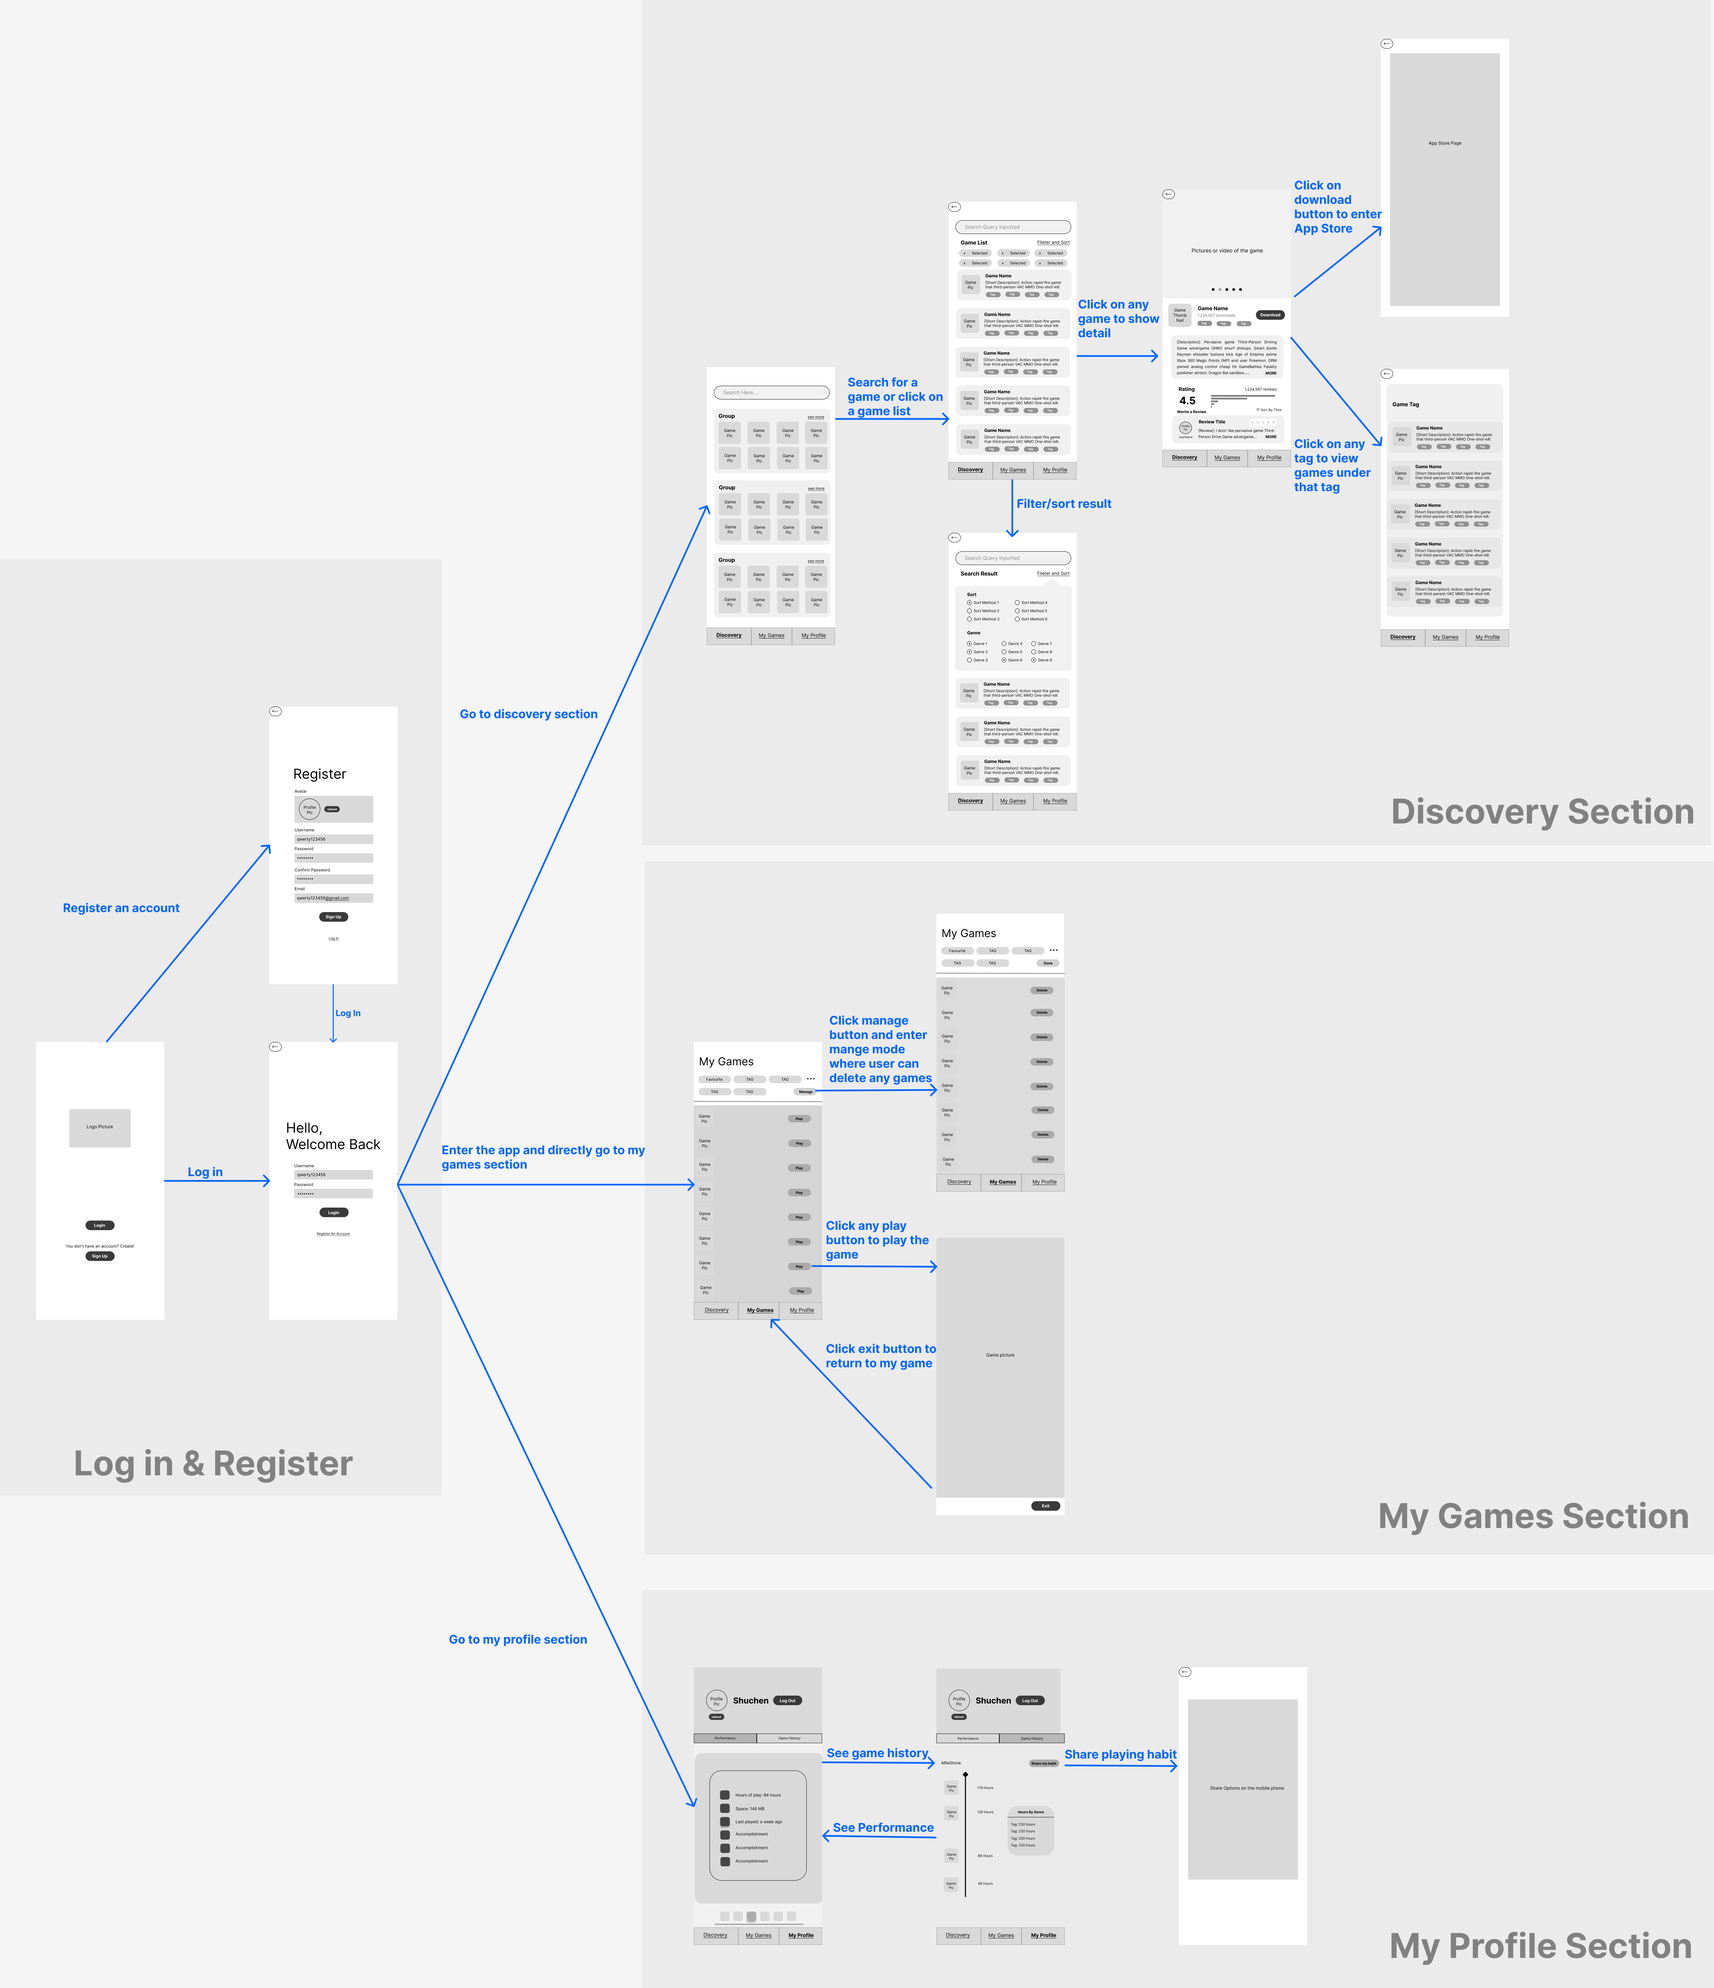
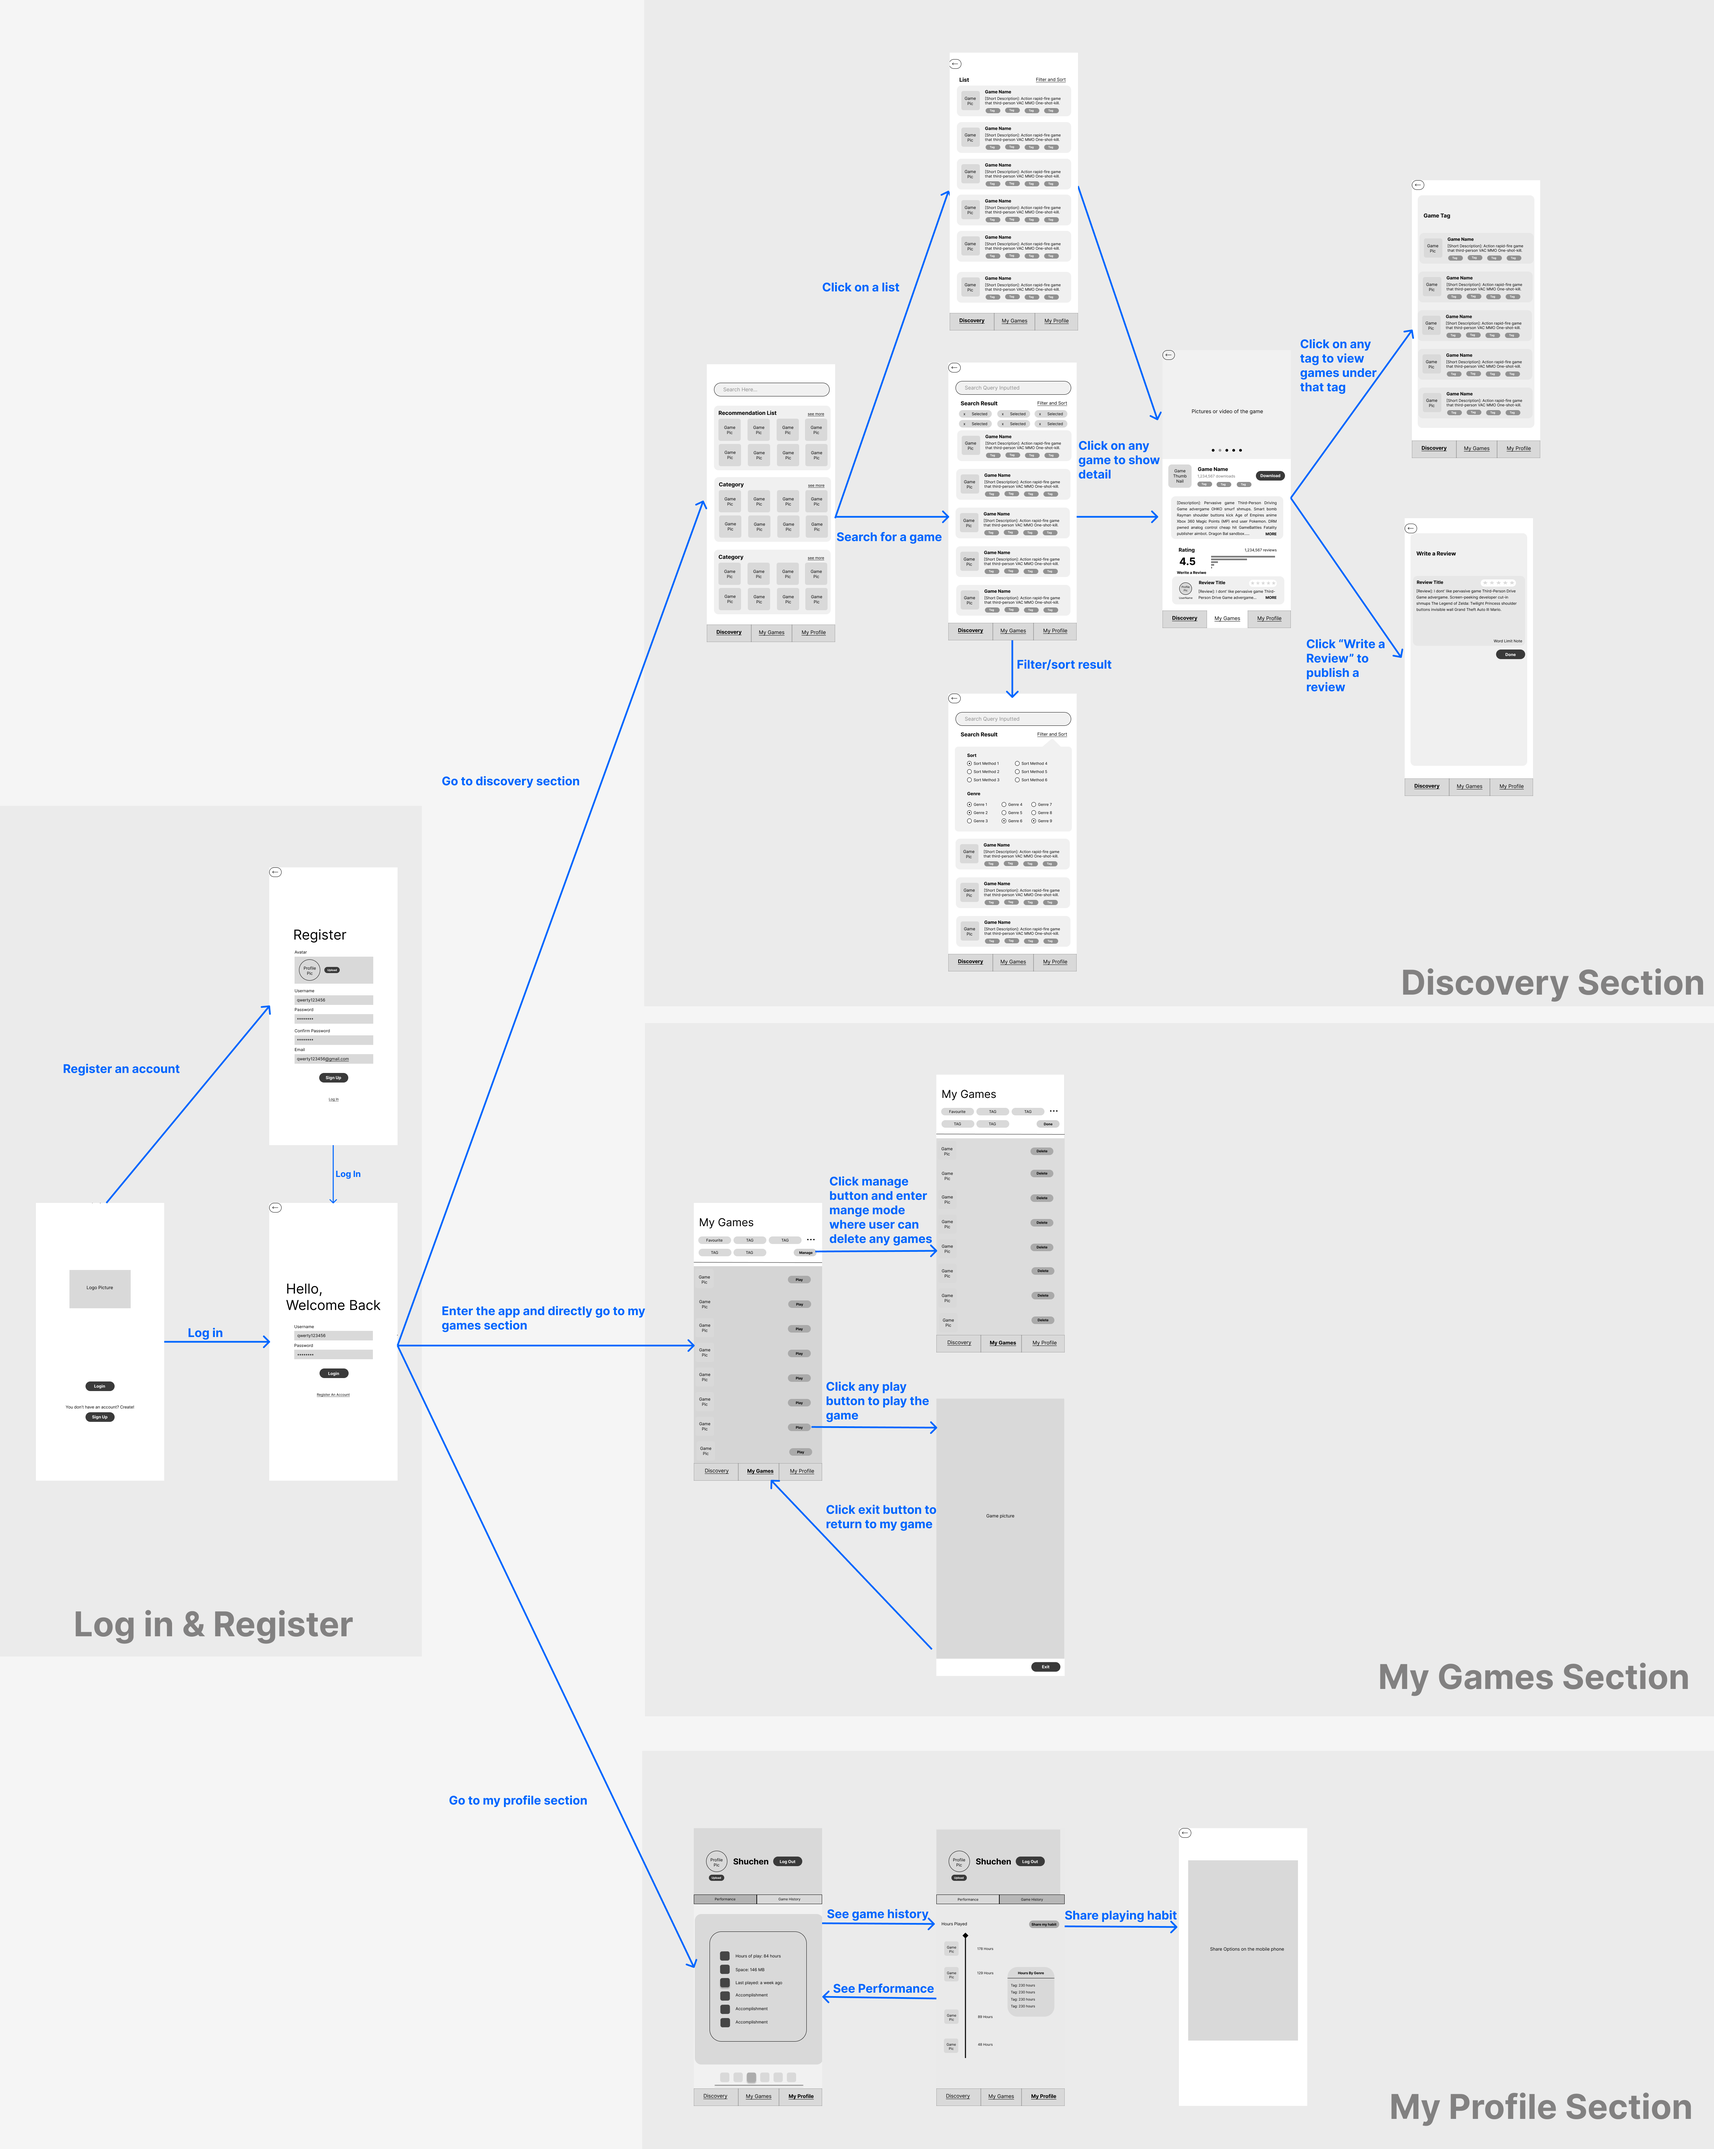
made adjustment to stakeholder section and adjust wireframe

diff --git a/README.md b/README.md
@@ -17,17 +17,17 @@
 
   - Where do you get your game recommendations?
 
+  - Do you find it hard to manage the games apps on your homepage? 
+
   - What is your opinion on the app store's game section. Do you find it useful? Why?
 
   - Do you want to know more about your game playing habit? 
-
-  - If a game recommendation app can quickly redirect you to the game or the app store, would you find this functionality helpful?
-
+  
 - Based on his responses, we concluded the following problems and goals. 
   - 4 problems/frustrations
 
-    - The current app store does not have a download history specifically for games. There is no place that shows and organizes the games that users download.
-  
+    - There are too many games on his phone. It is hard to manage them all.
+    
     - The game discovery section for the app store is not very useful. Popular games are occupying the discovery page. There is a lack of filters and categories. It is hard to find new games to play.
   
     - The games in the app store are not labeled well. It is hard to find similar games based on labels and categories.
@@ -36,7 +36,7 @@
 
   - 4 goals
 
-    - The user would like a place that can collectively shows and manage all of the downloaded games and download history.
+    - The user would like to play, download, and manage all games in one app.
   
     - The user wants a personalized game discovery page that contain all kinds of games, allow sorting games by category, and support game filtering.
   
@@ -72,7 +72,7 @@ A personalized mobile game finder app that provides a player statistics dashboar
 ![Activity Diagram for User Story 2](ActivityDiagrams/UserStory2.png)
 
 ## Wireframe
-Note: click on the image to view it in figma for clearer representation.
+Note: click on the image to view it in figma for clearer representation. Also, the blue lines just shows the activity flow. It is not a part of the wireframe design.
 <a href="https://www.figma.com/file/RVoAOHxtBruQtTpuhqTUZm/Wireframes?node-id=123%3A97"><img src="./WireFrame/WireframeGraph.png"/></a>
 
 ## Clickable Prototype
